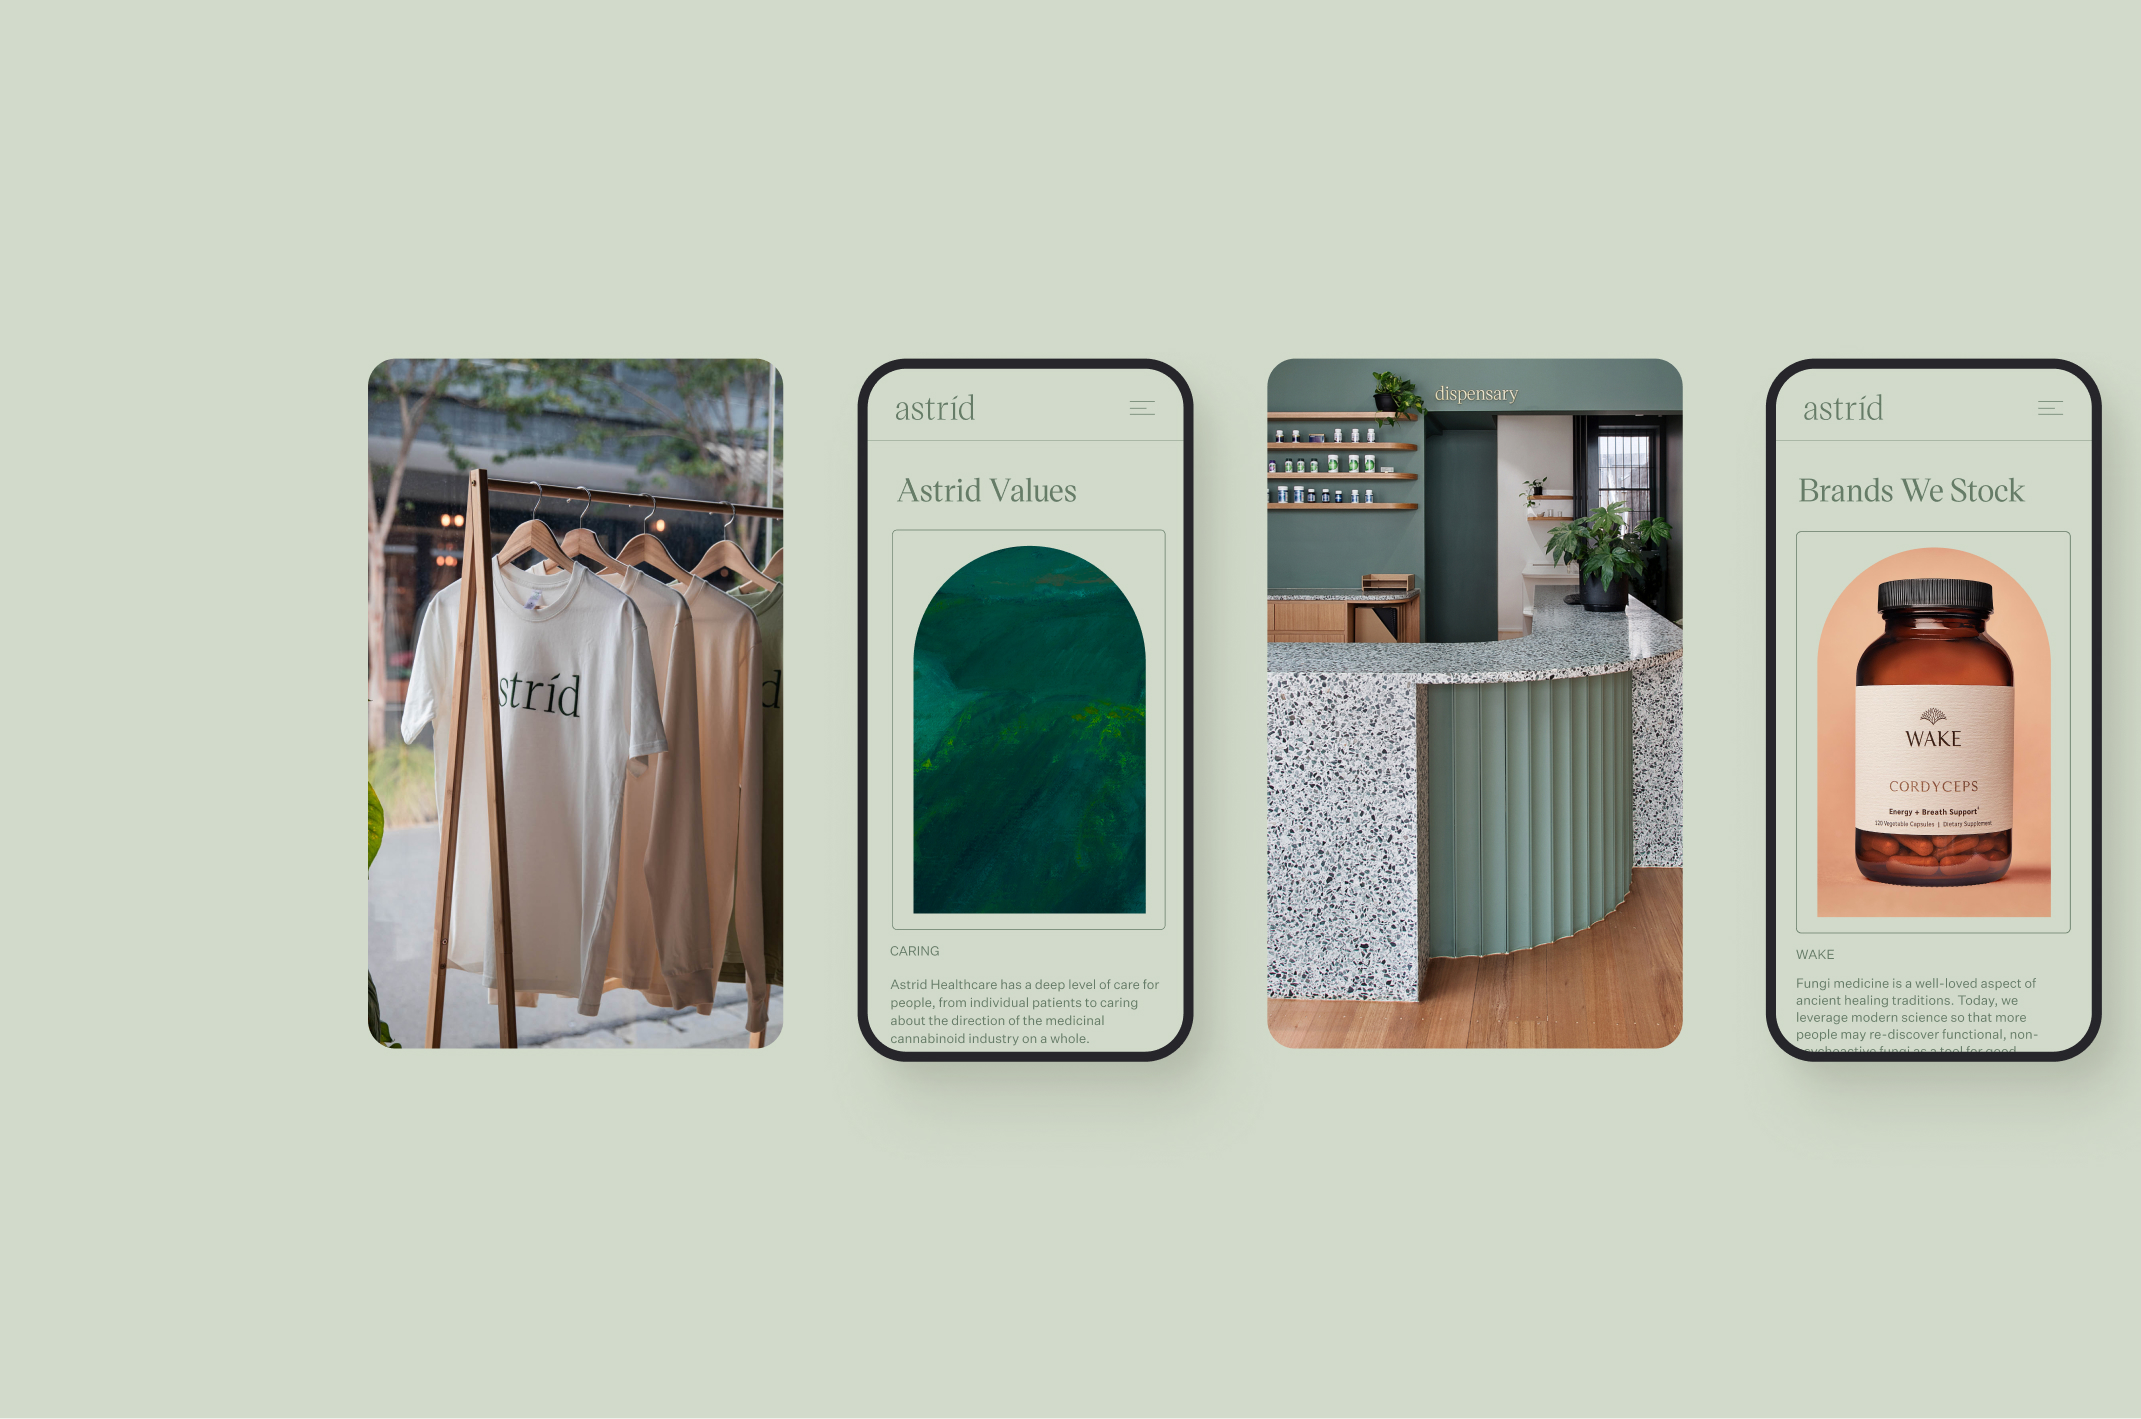
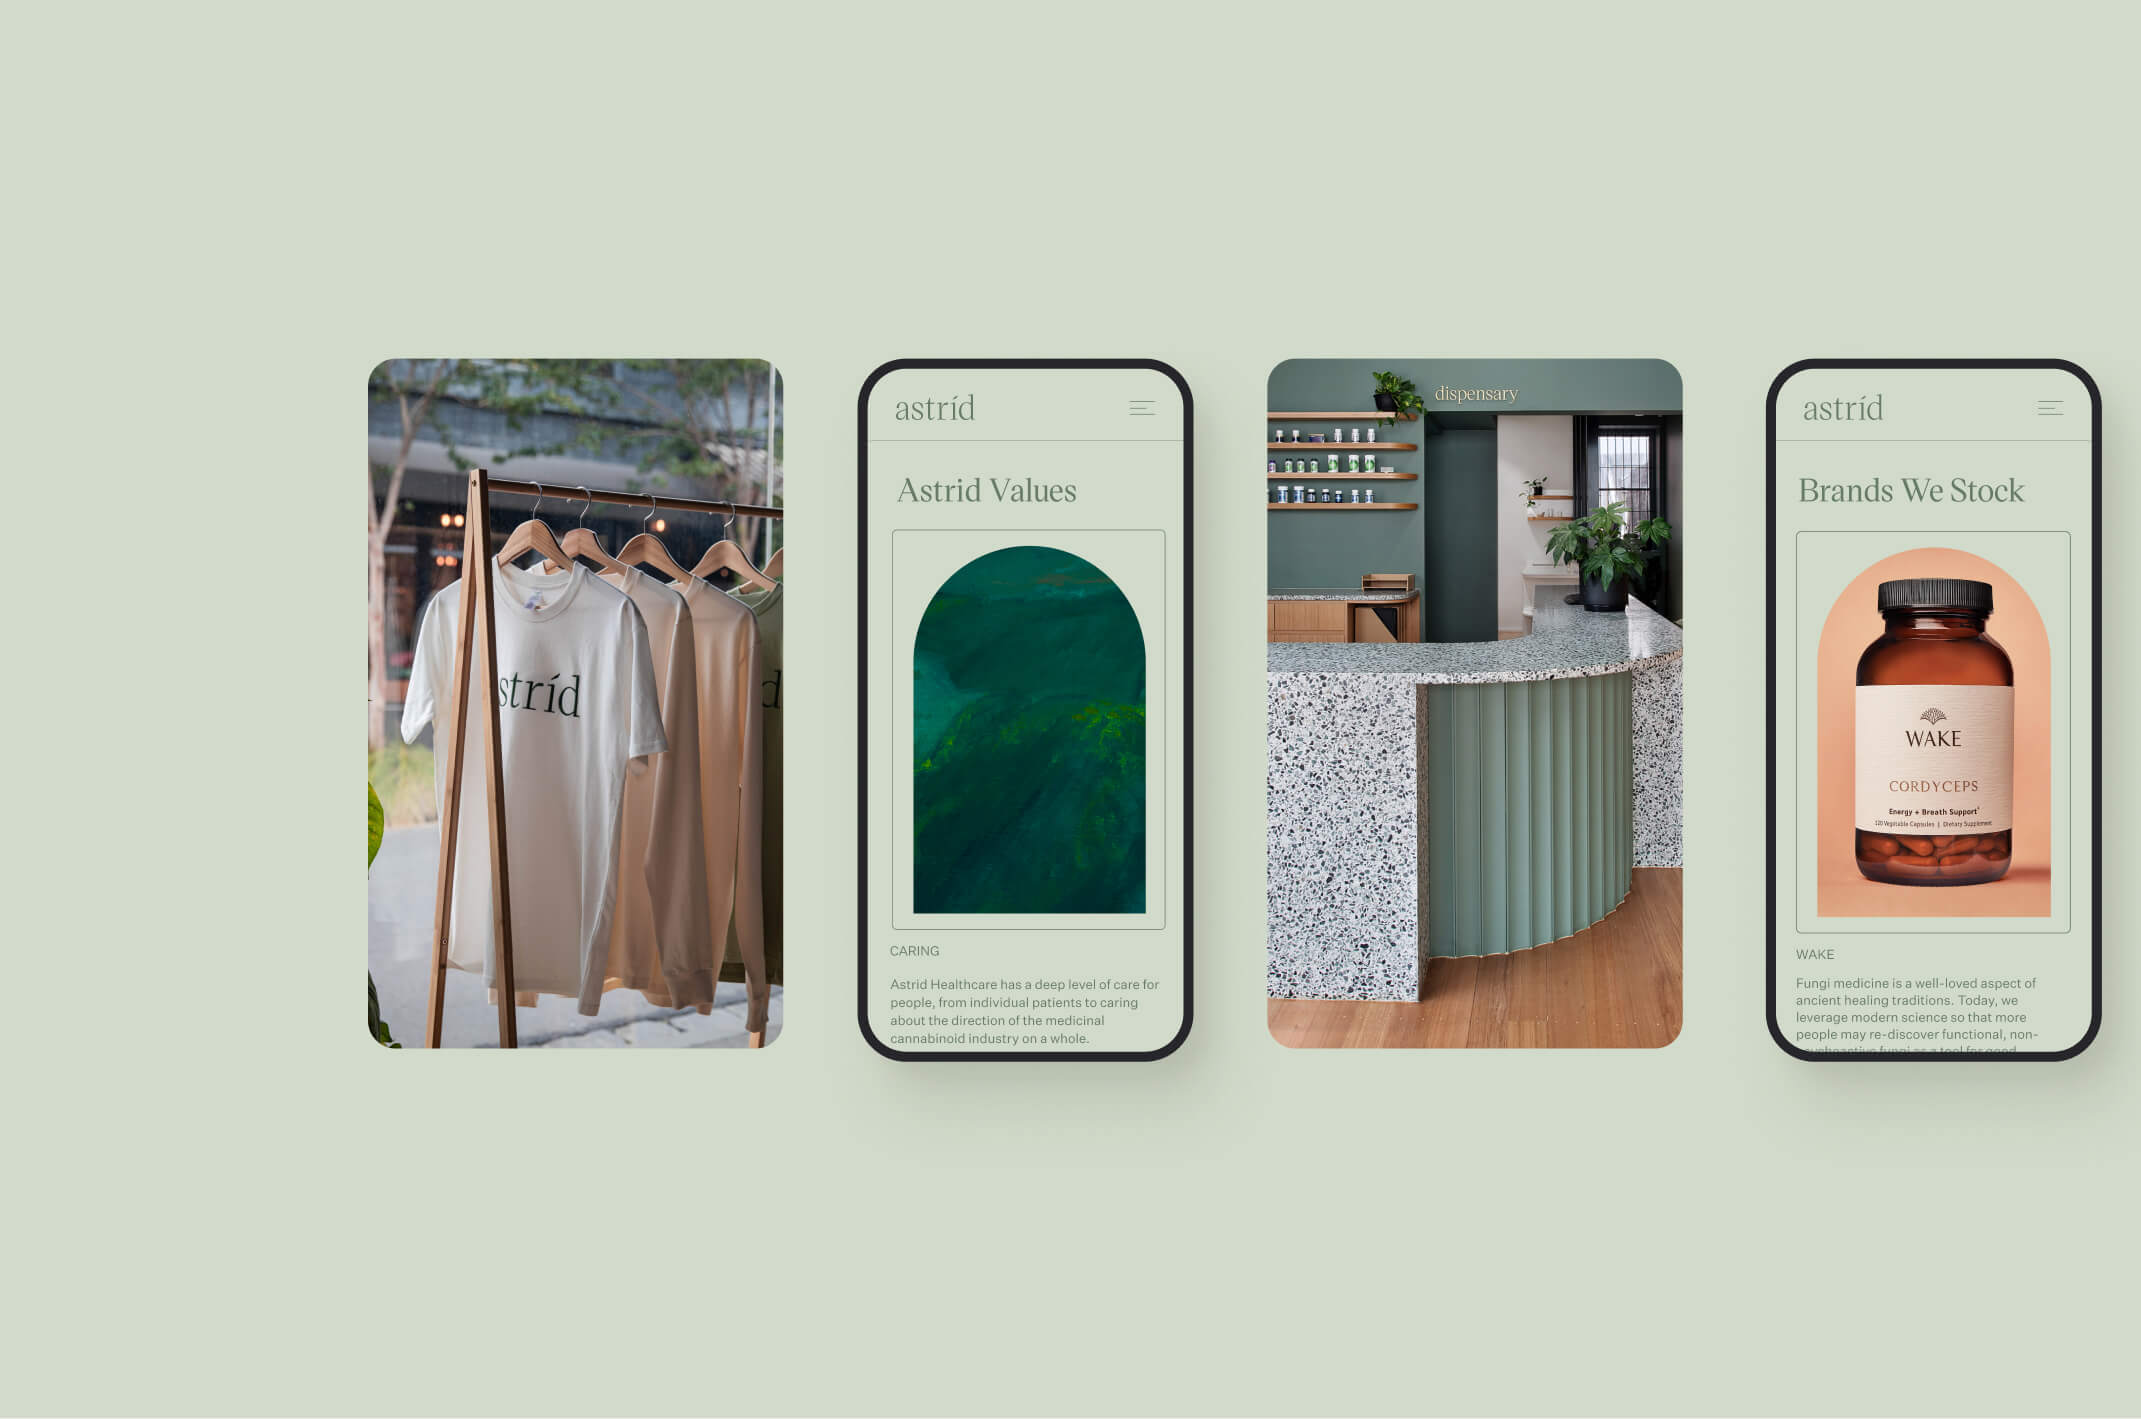
Reduced image sizes

Changed region(s): [[0.5857, 0.4961, 0.6474, 0.7132]]

diff --git a/src/components/d3-img.js b/src/components/d3-img.js
@@ -17,7 +17,7 @@ import Img from "gatsby-image"
 const D3= () => {
     const data = useStaticQuery(graphql`
       query {
-        placeholderImage: file(relativePath: { eq: "dc_hero3.jpg" }) {
+        placeholderImage: file(relativePath: { eq: "dc_hero2.jpg" }) {
           childImageSharp {
             fluid(maxWidth: 2000) {
               ...GatsbyImageSharpFluid
